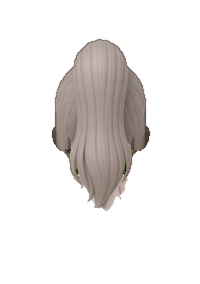
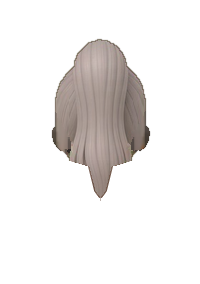
walk3: ground-synced stride, skirt hem swing, h02 ponytail N/NW reshaped

Changed region(s): [[0.33, 0.5634, 0.66, 0.7606]]

diff --git a/js/avatar.js b/js/avatar.js
@@ -249,6 +249,7 @@ export function still(ch, d) { const a = ch._avp || (ch._avp = parse(ch.av)); d 
 // walk fix: the v17 layered path had ONE still per direction, so legs never moved. Build 8 stepping frames per direction from the still:
 // front/back views lift the swing leg alternately (left/right halves split at the crotch gap); side views scissor the legs (back leg darker).
 export const WALK_N = 8; const wcache = new Map();
+const STRIDE_HALF = 38 / (150 * .93 / 203) / 2; // ≈27.7 still px: planted foot keeps pace with ground at stepLen 38
 export function walkStill(ch, d, f) { const st = still(ch, d); if (!st) return null; const D = LDIR[d] || 'S', k = encode(ch._avp) + '|' + D + '|' + f; let c = wcache.get(k); if (c) return c;
   const W = st.width, H = st.height, sp = st.getContext('2d').getImageData(0, 0, W, H).data, A_ = (x, y) => x < 0 || x >= W || y < 0 || y >= H ? 0 : sp[(y * W + x) * 4 + 3];
   let yb = 0; for (let y = H - 1; y >= 0 && !yb; y--) for (let x = 0; x < W; x++) if (A_(x, y) > 40) { yb = y; break; }
@@ -265,7 +266,8 @@ export function walkStill(ch, d, f) { const st = still(ch, d); if (!st) return n
     let y = ym; while (y > bt + BH * .6 && wd(y) <= wm * 1.25 + 3) y--;
     const yh = Math.min(y, yb - 7); y0 = hasGap ? Math.max(y0, yh) : yh; if (side && y0 < bt + BH * .72) y0 = Math.round(bt + BH * .78); }
   const L = yb - y0, hem = y0; // hem/crotch row
-  const s = Math.sin(f / WALK_N * 2 * Math.PI);
+  const u = f / WALK_N, s = Math.sin(u * 2 * Math.PI), tri = 1 - 4 * Math.abs(((u + .25) % 1) - .5); // tri: constant-speed stance (planted foot moves with the ground)
+  const skirt = !hasGap;
   c = document.createElement('canvas'); c.width = W; c.height = H; const g = c.getContext('2d'), od = g.createImageData(W, H), op = od.data;
   const cp = (x, y, sx, sy, dk) => { if (x < 0 || x >= W || y < 0 || y >= H || sx < 0 || sx >= W || sy < 0 || sy >= H) return; const i = (sy * W + sx) * 4, a = sp[i + 3]; if (!a) return; const o = (y * W + x) * 4, b = op[o + 3] / 255, kk = a / 255, oa = kk + b * (1 - kk);
     for (let q = 0; q < 3; q++) op[o + q] = (sp[i + q] * dk * kk + op[o + q] * b * (1 - kk)) / oa; op[o + 3] = 255 * oa; };
@@ -273,14 +275,14 @@ export function walkStill(ch, d, f) { const st = still(ch, d); if (!st) return n
   // upper body (with hem sway + arm swing in front/back views)
   let tl = W, tr = 0; for (let x = 0; x < W; x++) if (A_(x, y0 - 2) > 40) { if (x < tl) tl = x; if (x > tr) tr = x; }
   const ya = bt + BH * .36, swayRows = Math.max(6, BH * .1);
-  for (let y = 0; y <= y0; y++) { const sway = (side ? 1 : 1.6) * s * sm((y - (hem - swayRows)) / swayRows);
-    for (let x = 0; x < W; x++) { let sy = y; if (!side && y > ya && (x < tl + 1 || x > tr - 1)) { const left = x < cx; sy = Math.round(y - (left ? -s : s) * 3 * sm((y - ya) / (y0 - ya))); } cp(x, y, Math.round(x - sway), sy, 1); } }
+  for (let y = 0; y <= y0; y++) { const hs = sm((y - (hem - swayRows)) / swayRows), sway = (side ? (skirt ? 2.2 : 1) : (skirt ? 3 : 1.6)) * s * hs;
+    for (let x = 0; x < W; x++) { let sy = y; if (!side && y > ya && (x < tl + 1 || x > tr - 1)) { const left = x < cx; sy = Math.round(y - (left ? -s : s) * 4.5 * sm((y - ya) / (y0 - ya))); } if (skirt && !side && hs > 0) sy = Math.round(sy + 2.5 * hs * Math.max(0, (x < cx ? 1 : -1) * s)); cp(x, y, Math.round(x - sway), sy, 1); } }
   const OUT = [92, 58, 40];
-  if (side) { const A = (hasGap || !split ? Math.max(12, L * .34) : Math.max(6, L * .5)) * s; // scissor: back leg (darker) then front leg with chocolate rim
-    const leg = (sel, dx, dk, rim) => { for (let y = y0 + 1; y < H; y++) { const e = E(y), ddx = Math.round(dx * e), lift = Math.round(Math.max(0, (dk < 1 ? 1 : -1) * 0) ); for (let x = 0; x < W; x++) { const sx = x - ddx; if (!sel(sx)) continue; cp(x, y, sx, y - lift, dk); } }
+  if (side) { const A = Math.min(STRIDE_HALF, skirt ? L * 1.1 : L * .62) * tri, SL = 5 * s; // SL: swing-leg lift // scissor: back leg (darker) then front leg with chocolate rim
+    const leg = (sel, dx, dk, rim) => { for (let y = y0 + 1; y < H; y++) { const e = E(y), ddx = Math.round(dx * e), lift = Math.round(Math.max(0, (dk < 1 ? -SL : SL)) * e); for (let x = 0; x < W; x++) { const sx = x - ddx; if (!sel(sx)) continue; cp(x, y, sx, y - lift, dk); } }
       if (rim) for (let y = y0 + 3; y < H; y++) { const e = E(y), ddx = Math.round(dx * e); for (let x = 1; x < W - 1; x++) { const sx = x - ddx; if (!sel(sx) || A_(sx, y) < 120) continue; for (const nx of [-1, 1]) { const qx = sx + nx; if (sel(qx) && A_(qx, y) >= 60) continue; const o = (y * W + x) * 4; for (let q = 0; q < 3; q++) op[o + q] = op[o + q] * .55 + OUT[q] * .45; } } } };
     if (split) { leg(x => x >= cx, -A, .9, false); leg(x => x < cx, A, 1, true); } else { leg(() => true, -A, .88, false); leg(() => true, A, 1, true); } }
-  else { const fw0 = D === 'SW' ? -4 : D === 'NW' ? 4 : 0, lift = Math.min(L * .7, Math.max(L * .24, 6)); // alternate lift with leg shortening (top fixed, foot rises)
+  else { const fw0 = D === 'SW' ? -4 : D === 'NW' ? 4 : 0, lift = Math.min(L * .75, Math.max(L * .26, 8)); // alternate lift with leg shortening (top fixed, foot rises)
     const half = left => { const sw = left ? Math.max(0, s) : Math.max(0, -s); for (let y = y0 + 1; y < H; y++) { const e = E(y), dy = lift * sw * e, dx = fw0 * sw * e;
       for (let x = 0; x < W; x++) { const sx = Math.round(x - dx), sy = Math.round(y + dy); if ((sx < cx) !== left) continue; cp(x, y, sx, sy, 1 - .05 * sw * e); } } };
     const lu = s > 0; half(!lu); half(lu); }

diff --git a/js/world.js b/js/world.js
@@ -129,7 +129,7 @@ export class Char {
   _lpose(face) { const MIR = { E: 'W', SE: 'SW', NE: 'NW' }, d0 = MIR[face] || face, flip = !!MIR[face];
     if (!window.AV.still(this, d0)) return null;
     const walking = this.speedNow > 0, U = this.drawH / 150; let sx = 1, sy = 1, lift = 0, rot = 0;
-    if (walking) { const ph = this._ph = this.dist / ((this.cfg?.player?.stepLen || 34) * U * CK.k), s = Math.sin(ph * Math.PI), as = Math.abs(s);
+    if (walking) { const ph = this._ph = this.dist / ((this.cfg?.player?.stepLen || 38) * U * CK.k), s = Math.sin(ph * Math.PI), as = Math.abs(s);
       lift = as * 7 * U; rot = s * .03; const land = Math.pow(1 - as, 6); sy = 1 - land * .06 + as * .015; sx = 1 + land * .05; }
     else { const br = Math.sin(this.t * 2.4); sy = 1 + br * .018; sx = 1 - br * .01; }
     if (this.emote === 'jump' || this.emote === 'happy') { const p = (this.emoteT * 2.2) % 1; lift = Math.sin(p * Math.PI) * 38; sy = p < .12 || p > .88 ? .9 : 1.05; sx = 2 - sy; }

diff --git a/MORNING_REPORT.md b/MORNING_REPORT.md
@@ -188,3 +188,9 @@ Tests: beta_suite 160/160 local; test_walk_scale PASS; test_presence 6/6 PASS on
 - Hem detection = narrowest ankle row → scan up until filled width > 1.25x (fixes skirt/dress centre tears for hanbok/formal/dresses).
 - No accessory changes. Suite 160/160.
 - Known limits: residual foot slide at ~7.6 steps/s; arm swing subtle; blue/purple fleck on boy sky/lav side-foot is in source art.
+
+## walk3 — stride sync, skirts, ponytail (2026-10-31)
+- Cadence: stepLen 34→38 (≈6.8 steps/s at speed 260). Side scissor uses a constant-speed (triangle) stance so the planted foot moves with the ground; half-stride = 38/(0.687)/2 ≈ 27.7 still px (capped .62L, skirts 1.1L), swing-leg lift 5px.
+- Long skirts: stronger hem sway (front 3px, side 2.2px) + hem lifts on the stepping side; shoe lift min 8px. Arm swing 3→4.5px.
+- Girl h02 ponytail N/NW: pixel-edited — head kept intact to the nape (y160), tail tapered 28→~8px, ends ~y196 (mid-back), soft chocolate edge. Originals in /workspace/mk/bak/h02/.
+- Suite 160/160. No accessory changes.
